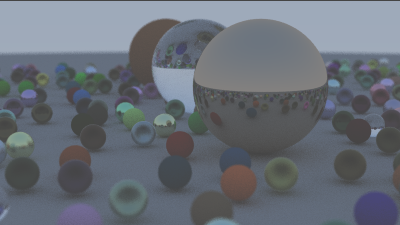
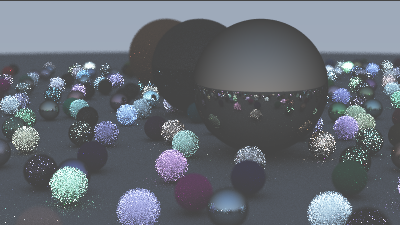
Implement importance sampling for Cook-Torrance material; refactor ray_color and add align_to_normal function

diff --git a/src/material.rs b/src/material.rs
@@ -11,7 +11,25 @@ pub trait Material: Send + Sync {
         attenuation: &mut Color,
         scattered: &mut Ray,
     ) -> bool;
+
+    fn scatter_importance(
+        &self,
+        r_in: &Ray,
+        rec: &HitRecord,
+    ) -> Option<(Ray, Color, f32)> {
+        // Default fallback for materials that don't support importance sampling
+        let mut attenuation = Color::default();
+        let mut scattered = Ray::default();
+        if self.scatter(r_in, rec, &mut attenuation, &mut scattered) {
+            let cosine = f32::max(vec3::dot(rec.normal, vec3::unit_vector(scattered.direction())), 0.0);
+            let pdf = 1.0; // uniform sampling (fake)
+            return Some((scattered, attenuation * cosine, pdf));
+        }
+        None
+    }
 }
+
+
 
 pub struct Lambertian {
     albedo: Color,
@@ -178,39 +196,45 @@ pub struct CookTorrance {
 
 impl CookTorrance {
     pub fn new(albedo: Color, roughness: f32, metallic: f32) -> Self {
-        CookTorrance {
+        Self {
             albedo,
-            roughness: roughness.clamp(0.05, 1.0),
-            metallic,
+            roughness: roughness.clamp(0.05, 1.0), // Clamp to avoid degenerate values
+            metallic: metallic.clamp(0.0, 1.0),
         }
     }
-
     fn fresnel_schlick(cos_theta: f32, f0: Color) -> Color {
         f0 + (Color::new(1.0, 1.0, 1.0) - f0) * f32::powf(1.0 - cos_theta, 5.0)
     }
 
-    fn distribution_ggx(n: vec3::Vec3, h: vec3::Vec3, roughness: f32) -> f32 {
+    // GGX sample (based on spherical coordinates)
+    fn sample_ggx(normal: vec3::Vec3, roughness: f32) -> vec3::Vec3 {
+        let u1 = common::random();
+        let u2 = common::random();
+
+        let a = roughness * roughness;
+
+        let theta = f32::acos(f32::sqrt((1.0 - u1) / (1.0 + (a * a - 1.0) * u1)));
+        let phi = 2.0 * std::f32::consts::PI * u2;
+
+        let sin_theta = f32::sin(theta);
+        let x = sin_theta * f32::cos(phi);
+        let y = sin_theta * f32::sin(phi);
+        let z = f32::cos(theta);
+
+        let h_local = vec3::Vec3::new(x, y, z);
+        vec3::align_to_normal(h_local, normal)
+    }
+
+    fn pdf_ggx(normal: vec3::Vec3, h: vec3::Vec3, roughness: f32) -> f32 {
         let a = roughness * roughness;
         let a2 = a * a;
-        let n_dot_h = f32::max(vec3::dot(n, h), 0.0);
-        let n_dot_h2 = n_dot_h * n_dot_h;
-
-        let denom = n_dot_h2 * (a2 - 1.0) + 1.0;
-        a2 / (std::f32::consts::PI * denom * denom)
-    }
-
-    fn geometry_smith(n: vec3::Vec3, v: vec3::Vec3, l: vec3::Vec3, roughness: f32) -> f32 {
-        fn geometry_schlick_ggx(n_dot_v: f32, roughness: f32) -> f32 {
-            let r = roughness + 1.0;
-            let k = (r * r) / 8.0;
-            n_dot_v / (n_dot_v * (1.0 - k) + k)
-        }
-
-        let n_dot_v = f32::max(vec3::dot(n, v), 0.0);
-        let n_dot_l = f32::max(vec3::dot(n, l), 0.0);
-        geometry_schlick_ggx(n_dot_v, roughness) * geometry_schlick_ggx(n_dot_l, roughness)
+        let n_dot_h = f32::max(vec3::dot(normal, h), 0.0);
+        let denom = n_dot_h * n_dot_h * (a2 - 1.0) + 1.0;
+        let d = a2 / (std::f32::consts::PI * denom * denom);
+        d * n_dot_h / (4.0 * vec3::dot(h, vec3::unit_vector(h)).abs())
     }
 }
+
 
 impl Material for CookTorrance {
     fn scatter(
@@ -220,13 +244,11 @@ impl Material for CookTorrance {
         attenuation: &mut Color,
         scattered: &mut Ray,
     ) -> bool {
+        // Keep this if you want compatibility with existing code
+        // Or remove once you're fully using scatter_importance()
         let normal = rec.normal;
         let v = -vec3::unit_vector(r_in.direction());
-
-        // Sample halfway vector for microfacet reflection
         let mut reflect_dir = vec3::reflect(v, normal);
-        
-        // Add roughness via GGX-style fuzz (approximated)
         reflect_dir += self.roughness * vec3::random_in_unit_sphere();
 
         if reflect_dir.near_zero() {
@@ -234,19 +256,39 @@ impl Material for CookTorrance {
         }
 
         *scattered = Ray::new(rec.p, vec3::unit_vector(reflect_dir));
-
-        // Approximate Fresnel reflectance
         let cos_theta = f32::max(vec3::dot(normal, v), 0.0);
         let f0 = Color::new(0.04, 0.04, 0.04).lerp(self.albedo, self.metallic);
         let fresnel = CookTorrance::fresnel_schlick(cos_theta, f0);
-
-        let kd = Color::new(1.0, 1.0, 1.0) - fresnel;
-        let kd = kd * (1.0 - self.metallic);
-
+        let kd = (Color::new(1.0, 1.0, 1.0) - fresnel) * (1.0 - self.metallic);
         let diffuse = self.albedo / std::f32::consts::PI;
-
         *attenuation = kd * diffuse + fresnel;
-
         true
+    }
+
+    fn scatter_importance(
+        &self,
+        r_in: &Ray,
+        rec: &HitRecord,
+    ) -> Option<(Ray, Color, f32)> {
+        let n = rec.normal;
+        let v = -vec3::unit_vector(r_in.direction());
+
+        let h = Self::sample_ggx(n, self.roughness);
+        let l = vec3::reflect(-v, h);
+
+        if vec3::dot(l, n) <= 0.0 {
+            return None;
+        }
+
+        let f0 = Color::new(0.04, 0.04, 0.04).lerp(self.albedo, self.metallic);
+        let fresnel = Self::fresnel_schlick(f32::max(vec3::dot(h, v), 0.0), f0);
+        let kd = (Color::new(1.0, 1.0, 1.0) - fresnel) * (1.0 - self.metallic);
+        let diffuse = self.albedo / std::f32::consts::PI;
+        let attenuation = kd * diffuse + fresnel;
+
+        let scattered = Ray::new(rec.p, l);
+        let pdf = Self::pdf_ggx(n, h, self.roughness).max(0.001);
+
+        Some((scattered, attenuation, pdf))
     }
 }

diff --git a/src/main.rs b/src/main.rs
@@ -31,26 +31,21 @@ const SAMPLES_PER_PIXEL: i32 = 100;
 const MAX_DEPTH: i32 = 50;
 
 fn ray_color(r: &Ray, world: &dyn Hittable, depth: i32) -> Color {
-    // If we've exceeded the ray bounce limit, no more light is gathered
     if depth <= 0 {
         return Color::new(0.0, 0.0, 0.0);
     }
 
     let mut rec = HitRecord::new();
     if world.hit(r, 0.001, f32::INFINITY, &mut rec) {
-        let mut attenuation = Color::default();
-        let mut scattered = Ray::default();
-        if rec
-            .mat
-            .as_ref()
-            .unwrap()
-            .scatter(r, &rec, &mut attenuation, &mut scattered)
-        {
-            return attenuation * ray_color(&scattered, world, depth - 1);
+        if let Some((scattered, attenuation, pdf)) = rec.mat.as_ref().unwrap().scatter_importance(r, &rec) {
+            let cosine = f32::max(vec3::dot(rec.normal, vec3::unit_vector(scattered.direction())), 0.0);
+            return attenuation * ray_color(&scattered, world, depth - 1) * cosine / pdf;
+        } else {
+            return Color::new(0.0, 0.0, 0.0);
         }
-        return Color::new(0.0, 0.0, 0.0);
     }
 
+    // Background gradient
     let unit_direction = vec3::unit_vector(r.direction());
     let t = 0.5 * (unit_direction.y() + 1.0);
     (1.0 - t) * Color::new(1.0, 1.0, 1.0) + t * Color::new(0.5, 0.7, 1.0)

diff --git a/src/vec3.rs b/src/vec3.rs
@@ -53,6 +53,19 @@ impl Vec3 {
         self * (1.0 - t) + other * t
     }
 }
+pub fn align_to_normal(local: Vec3, normal: Vec3) -> Vec3 {
+    // Assume Z-up in local, rotate to match `normal`
+    let up = if normal.z().abs() < 0.999 {
+        Vec3::new(0.0, 0.0, 1.0)
+    } else {
+        Vec3::new(1.0, 0.0, 0.0)
+    };
+
+    let tangent = unit_vector(cross(up, normal));
+    let bitangent = cross(normal, tangent);
+
+    local.x() * tangent + local.y() * bitangent + local.z() * normal
+}
 
 // Type alias
 pub type Point3 = Vec3;
